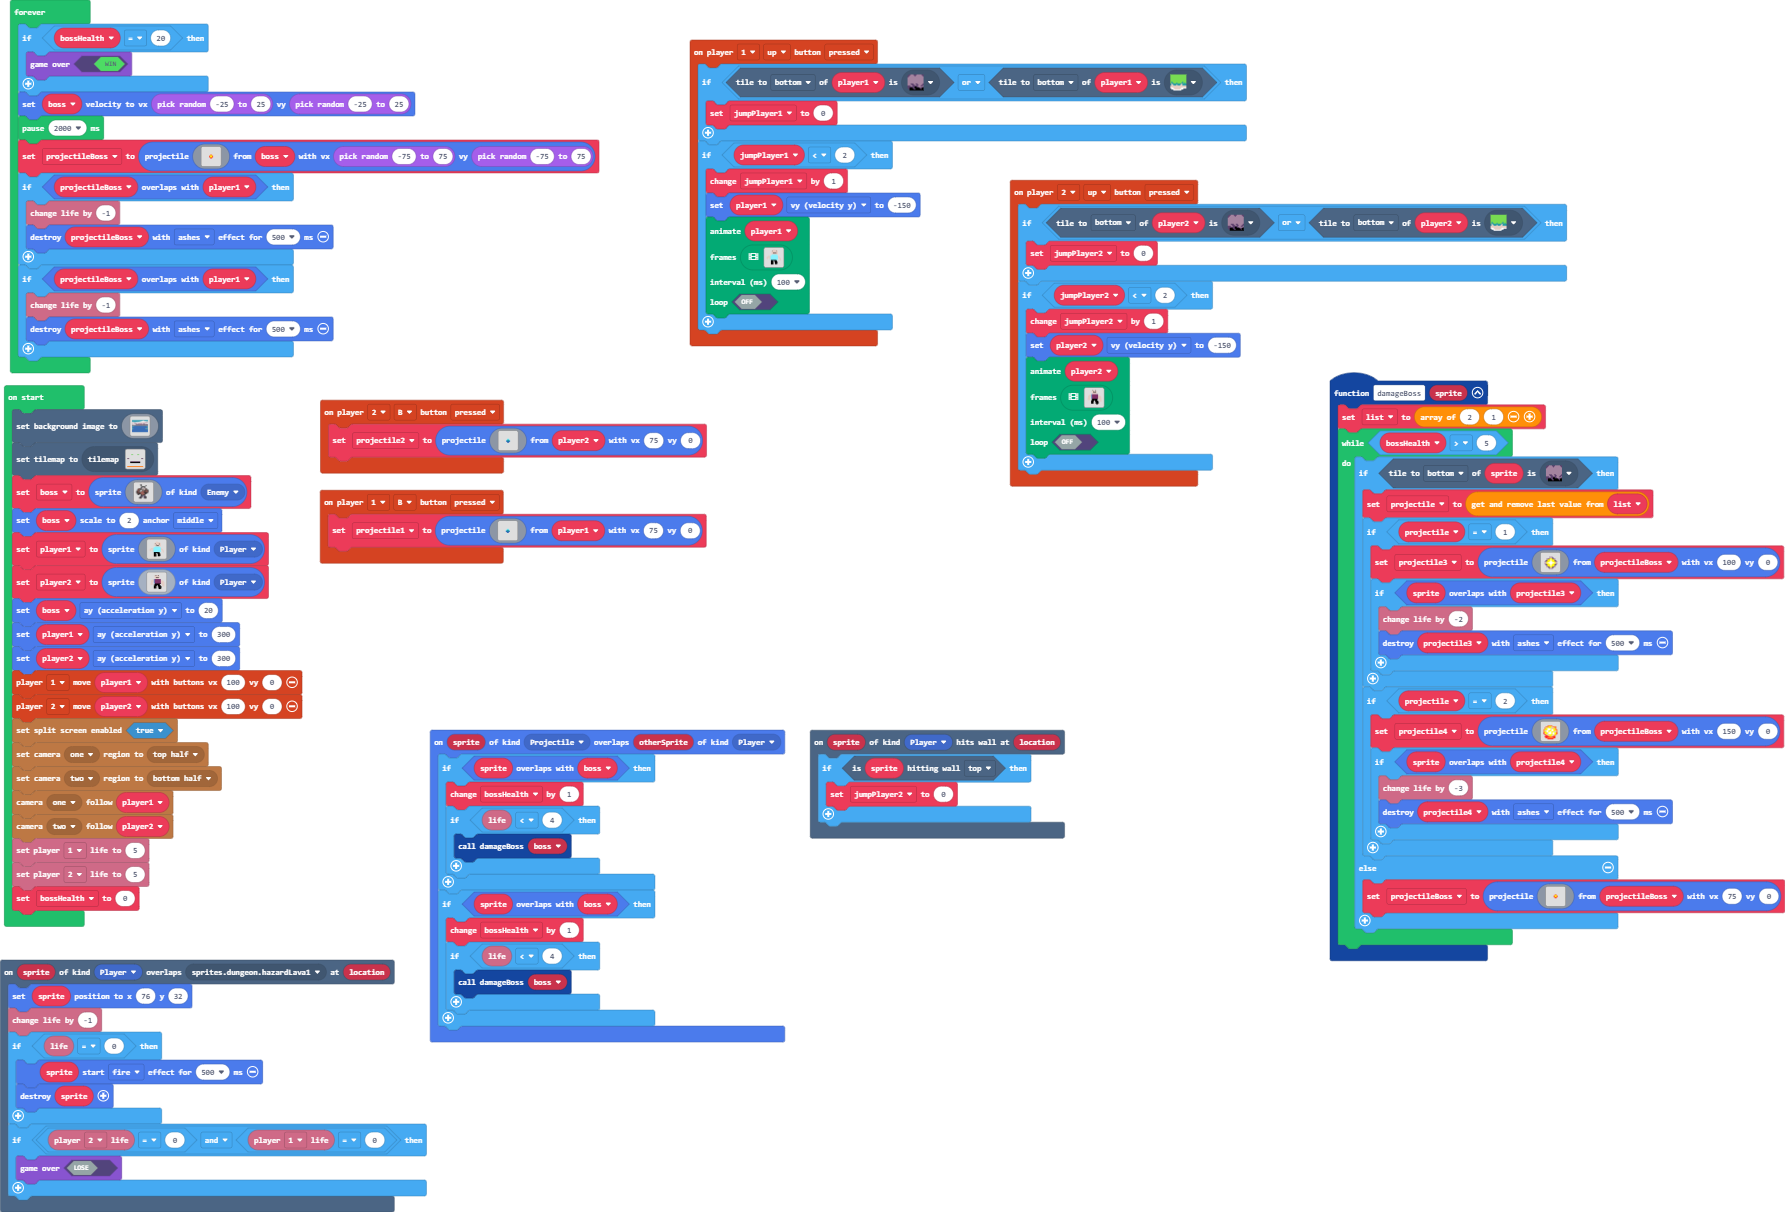
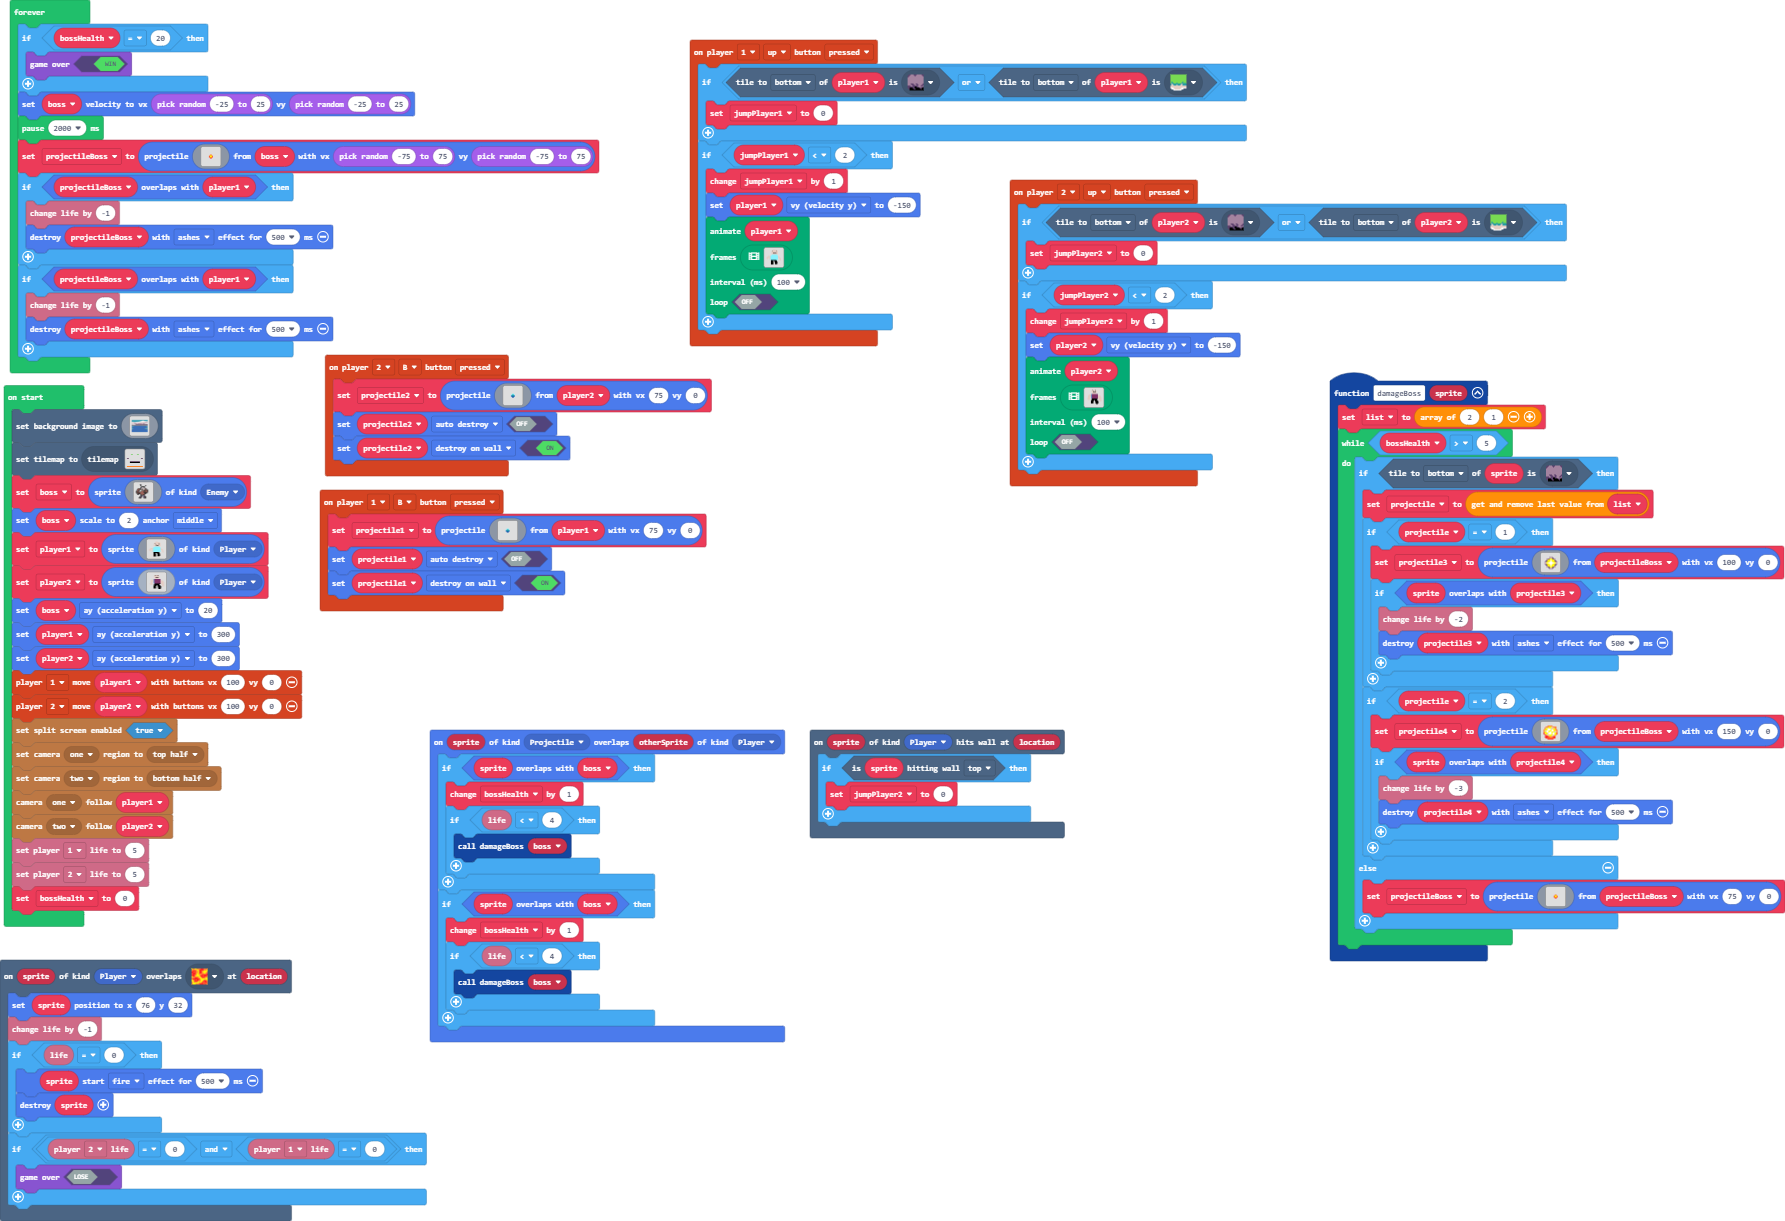
Update main.blocks, main.ts

diff --git a/main.ts b/main.ts
@@ -22,6 +22,8 @@ controller.player2.onButtonEvent(ControllerButton.B, ControllerButtonEvent.Press
         . . . . . . . . . . . . . . . . 
         . . . . . . . . . . . . . . . . 
         `, player2, 75, 0)
+    projectile2.setFlag(SpriteFlag.AutoDestroy, false)
+    projectile2.setFlag(SpriteFlag.DestroyOnWall, true)
 })
 controller.player1.onButtonEvent(ControllerButton.Up, ControllerButtonEvent.Pressed, function () {
     if (player1.tileKindAt(TileDirection.Bottom, sprites.builtin.oceanDepths0) || player1.tileKindAt(TileDirection.Bottom, sprites.skillmap.islandTile7)) {
@@ -502,6 +504,8 @@ controller.player1.onButtonEvent(ControllerButton.B, ControllerButtonEvent.Press
         . . . . . . . . . . . . . . . . 
         . . . . . . . . . . . . . . . . 
         `, player1, 75, 0)
+    projectile1.setFlag(SpriteFlag.AutoDestroy, false)
+    projectile1.setFlag(SpriteFlag.DestroyOnWall, true)
 })
 let projectile1: Sprite = null
 let projectile4: Sprite = null
